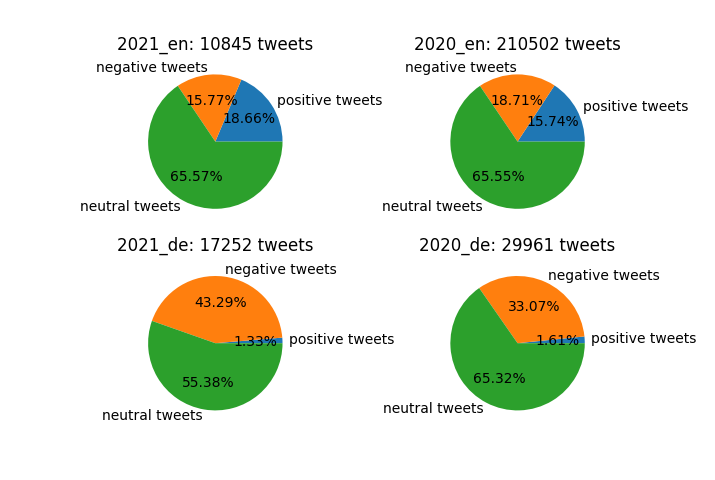
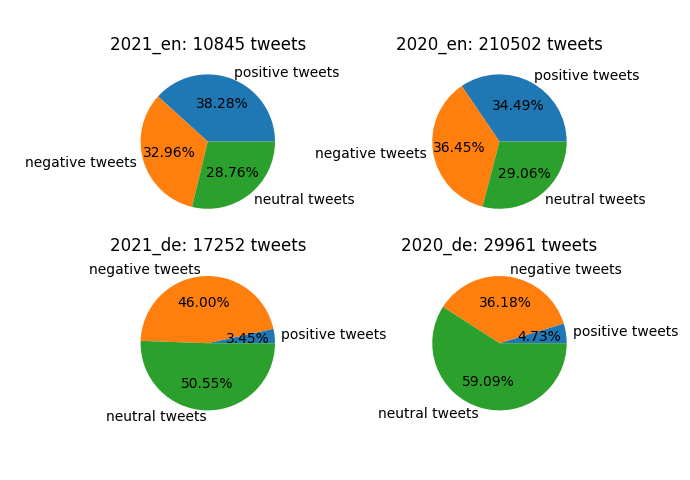
last changes2

diff --git a/main.py b/main.py
@@ -23,29 +23,29 @@ if __name__ == "__main__":
     #
     # ##### experiments #####
     #
-    # # experiment 1
-    # # sia classifier, all tweets
-    # run_sia_classifier_and_save(data_path_parent, data_path_save, list_of_data_all, list_of_results_all)
-    #
-    # # experiment 2
-    # # textblob en classifier, all tweets
-    # run_textblob_classifier_and_save(data_path_parent, data_path_save, list_of_data_english, list_of_results_english)
-    #
-    # # experiment 3
-    # # textblob de classifier, all tweets
-    # run_textblobDE_classifier_and_save(data_path_parent, data_path_save, list_of_data_german, list_of_results_german)
-    #
-    # # experiment 4
-    # # sia classifier, popular tweets
-    # run_sia_classifier_and_save(data_path_parent, data_path_save, list_of_data_all_popularity, list_of_results_all_popularity)
-    #
-    # # experiment 5
-    # # textblob en classifier, popular tweets
-    # run_textblob_classifier_and_save(data_path_parent, data_path_save, list_of_data_english_popularity, list_of_results_english_popularity)
-    #
-    # # experiment 6
-    # # textblob de classifier, popular tweets
-    # run_textblobDE_classifier_and_save(data_path_parent, data_path_save, list_of_data_german_popularity, list_of_results_german_popularity)
+    # experiment 1
+    # sia classifier, all tweets
+    run_sia_classifier_and_save(data_path_parent, data_path_save, list_of_data_all, list_of_results_all)
+
+    # experiment 2
+    # textblob en classifier, all tweets
+    run_textblob_classifier_and_save(data_path_parent, data_path_save, list_of_data_english, list_of_results_english)
+
+    # experiment 3
+    # textblob de classifier, all tweets
+    run_textblobDE_classifier_and_save(data_path_parent, data_path_save, list_of_data_german, list_of_results_german)
+
+    # experiment 4
+    # sia classifier, popular tweets
+    run_sia_classifier_and_save(data_path_parent, data_path_save, list_of_data_all_popularity, list_of_results_all_popularity)
+
+    # experiment 5
+    # textblob en classifier, popular tweets
+    run_textblob_classifier_and_save(data_path_parent, data_path_save, list_of_data_english_popularity, list_of_results_english_popularity)
+
+    # experiment 6
+    # textblob de classifier, popular tweets
+    run_textblobDE_classifier_and_save(data_path_parent, data_path_save, list_of_data_german_popularity, list_of_results_german_popularity)
 
 
     ##### plotting #####

diff --git a/experiments/measurements.py b/experiments/measurements.py
@@ -10,9 +10,9 @@ def update_number_of_sentiment_lists(compound, number_of_positive_tweets, number
     :param number_of_neutral_tweets: number of neutral tweets until now
     :return: updated numbers of positive, negative and neutral tweets
     """
-    if compound >= 0.5:
+    if compound >= 0.05:
         number_of_positive_tweets += 1
-    elif compound <= -0.5:
+    elif compound <= -0.05:
         number_of_negative_tweets += 1
     else:
         number_of_neutral_tweets += 1

diff --git a/readme.md b/readme.md
@@ -3,6 +3,7 @@ This project is implemented as a student project of the course Intelligent Infor
 The aim is to compare the sentiment of tweets from the 15.03.2020 and 15.03.2021 which deal with the covid-19 crisis. 
 For this I downloaded the corresponding tweets and used two pretrained classifiers for gaining the sentiment.
 In the end the results are compared by plotting them in a pie chart.
+My hypothesis is that the tweets are getting more negative in 2021 because the covid-19 crisis takes already a year.
 
 # Scraping Tweets
 For scraping the tweets of the 15.03.2020 and 15.03.2021 I use the tool [Twint](https://github.com/twintproject/twint).
@@ -25,6 +26,8 @@ Note that the scraping tool Twint uses the Western European Time, but I save the
 Therefore, the hour at 15.3. from 0:00 to 1:00 doesn't occur in my dataset but on the other hand the hour from 0:00 to 1:00 at 16.3.
 The scraping is implemented in [twint_search.py](./twint_search/twint_search.py).
 The scraped data can be found in the folders [data_corona_15_03_en](./data_corona_15_03_en) and [data_corona_15_03_de](./data_corona_15_03_de).
+In the first run I wanted to scrape all tweets of march with terms which belong to the covid-19 crisis, but this was way too much data and my computer couldn’t handle this. 
+The scraping is done in [twint_search.py](twint_search/twint_search.py).
 
 ## Problems by Scraping
 Unfortunately, the tool [Twint](https://github.com/twintproject/twint) doesn't work properly. 
@@ -57,11 +60,6 @@ As you will notice there are a lot more tweets related to "corona" at 15.03.2020
 Especially the tweets in English drop down from 210502 to 10845 tweets.
 I assume that this is due to the point that the corona crisis just started in March 2020 in the English and German speaking countries and therefore more people spoke about it these times.  
 
-# Preprocessing
-
-As preprocessing we collect the tweets which are in English and German language.
-In addition, we select from these tweets the popular tweets which are defined like explained above. 
-
 # Experiments
 
 In each experiment I run through each tweet and calculate the polarity score also known as compound of each tweet.
@@ -72,6 +70,14 @@ A tweet is considered as positive, neutral or negative by the following polarity
     neutral sentiment:  polarity score < 0.5 and polarity score > -0.5 
     negative sentiment: polarity score <= -0.5
 
+The experiments with its preprocessing and plotting is implemented in [main.py](main.py).
+
+## Preprocessing
+
+As preprocessing we collect the tweets which are in English and German language.
+In addition, we select from these tweets the popular tweets which are defined like explained above. 
+
+## Running Experiments
     
 For calculating the polarity score I use two different text processing libraries, the [SentimentIntensityAnalyzer](https://www.nltk.org/api/nltk.sentiment.html?highlight=sentimentintensityanalyzer#nltk.sentiment.vader.SentimentIntensityAnalyzer) of the [nltk](https://www.nltk.org/) library and the [TextBlob](https://textblob.readthedocs.io/en/dev/) of the textblob library. 
 In addition, I use the German version of the [textblob](https://textblob-de.readthedocs.io/en/latest/) library for processing the German tweets. 
@@ -118,12 +124,30 @@ The fifth and sixth experiment is the same as the second and third experiment, b
 ![Alt text](result_images/experiment5_6.PNG "high popularity")
 
 ## Analysis of experiments
+Firstly, I compare the differences between both sentiment analyzers. 
+By comparing with the results of all tweets I noticed that though the number of positive tweets for English tweet are very similar, the [SentimentIntensityAnalyzer](https://www.nltk.org/api/nltk.sentiment.html?highlight=sentimentintensityanalyzer#nltk.sentiment.vader.SentimentIntensityAnalyzer) of the [nltk](https://www.nltk.org/) library declares more English tweets as negative. 
+By comparing the sentiment of German tweets, the differences are bigger. 
+The [SentimentIntensityAnalyzer](https://www.nltk.org/api/nltk.sentiment.html?highlight=sentimentintensityanalyzer#nltk.sentiment.vader.SentimentIntensityAnalyzer) detects way more negative German tweets but way fewer positive tweets than the [TextBlob](https://textblob.readthedocs.io/en/dev/) analyzer. 
+I can see the same schema by comparing the results of high popular tweets.
 
+When comparing the differences of sentiment in tweets which are in English or German language, I draw the conclusion that the relative number of positive, negative and neutral tweets doesn’t really differ by using the [TextBlob](https://textblob.readthedocs.io/en/dev/) analyzer. 
+By looking at the [SentimentIntensityAnalyzer](https://www.nltk.org/api/nltk.sentiment.html?highlight=sentimentintensityanalyzer#nltk.sentiment.vader.SentimentIntensityAnalyzer) you can see that the relative number of negative tweets for English and German tweets are quite similar, but the English tweets have more positive tweets, in detail about 35% positive tweets in comparison to 3-4% positive tweets in German. 
 
+Unfortunately, I cannot see any differences in the sentiment in the years 2020 and 2021. 
+In addition, there aren’t huge differences in the percentages by considering all tweets or high popular tweets.
 
 # Conclusion
 
-# Future work
+My hypothesis that the tweets are getting a more negative sentiment in 2021 in comparison to 2020 is not fulfilled. 
+By using two sentiment analyzers I cannot see this behavior for 2020 and 2021. 
+It seems that the sentiment and public opinion about the covid-19 crisis didn’t change that much by analyzing tweets. 
+
+## Why is this project an intellgent information system?
+This project is an intelligent information system because it fulfills the most important functionalities of an intelligent information system. 
+It stores information and knowledge in form of csv files where information (here tweets) are stored and with pie charts which show knowledge. 
+It answers the question if the sentiment and public opinion about the covid-19 crisis changes from March 2020 to March 2021 in German and English-speaking countries and it discovers knowledge by drawing conclusions about this opinion.
+
+## Future work
 I noticed that most of the English-speaking medias speak about the covid-19 crisis and not the corona crisis whereas in Germany most medias call it corona crisis.
 Because of my background of living in Germany I scraped tweets with the term "corona" in it. 
 Maybe there would be more especially English tweets if I instead scraped tweets with the term "covid" in it.  
